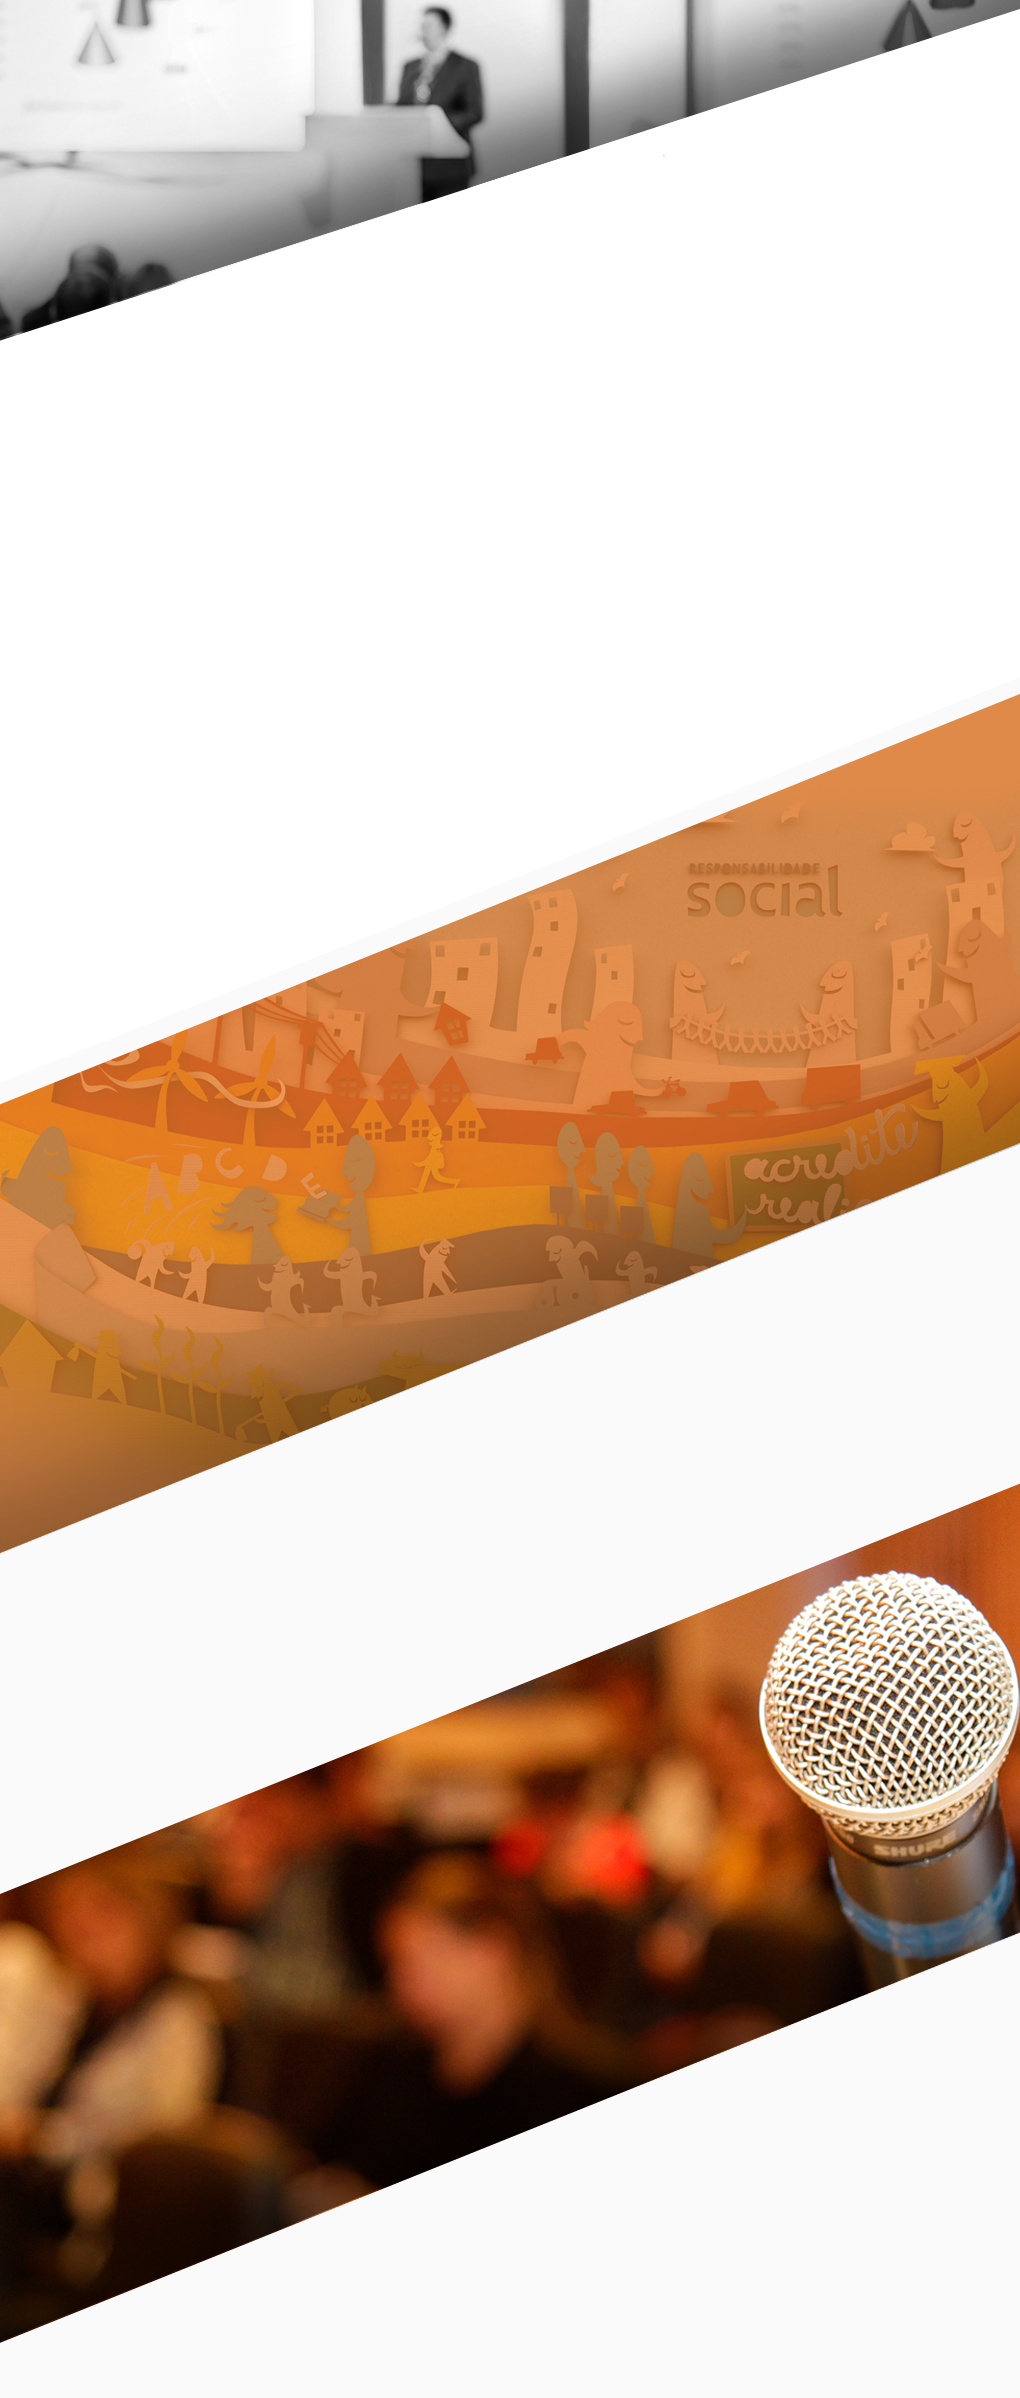
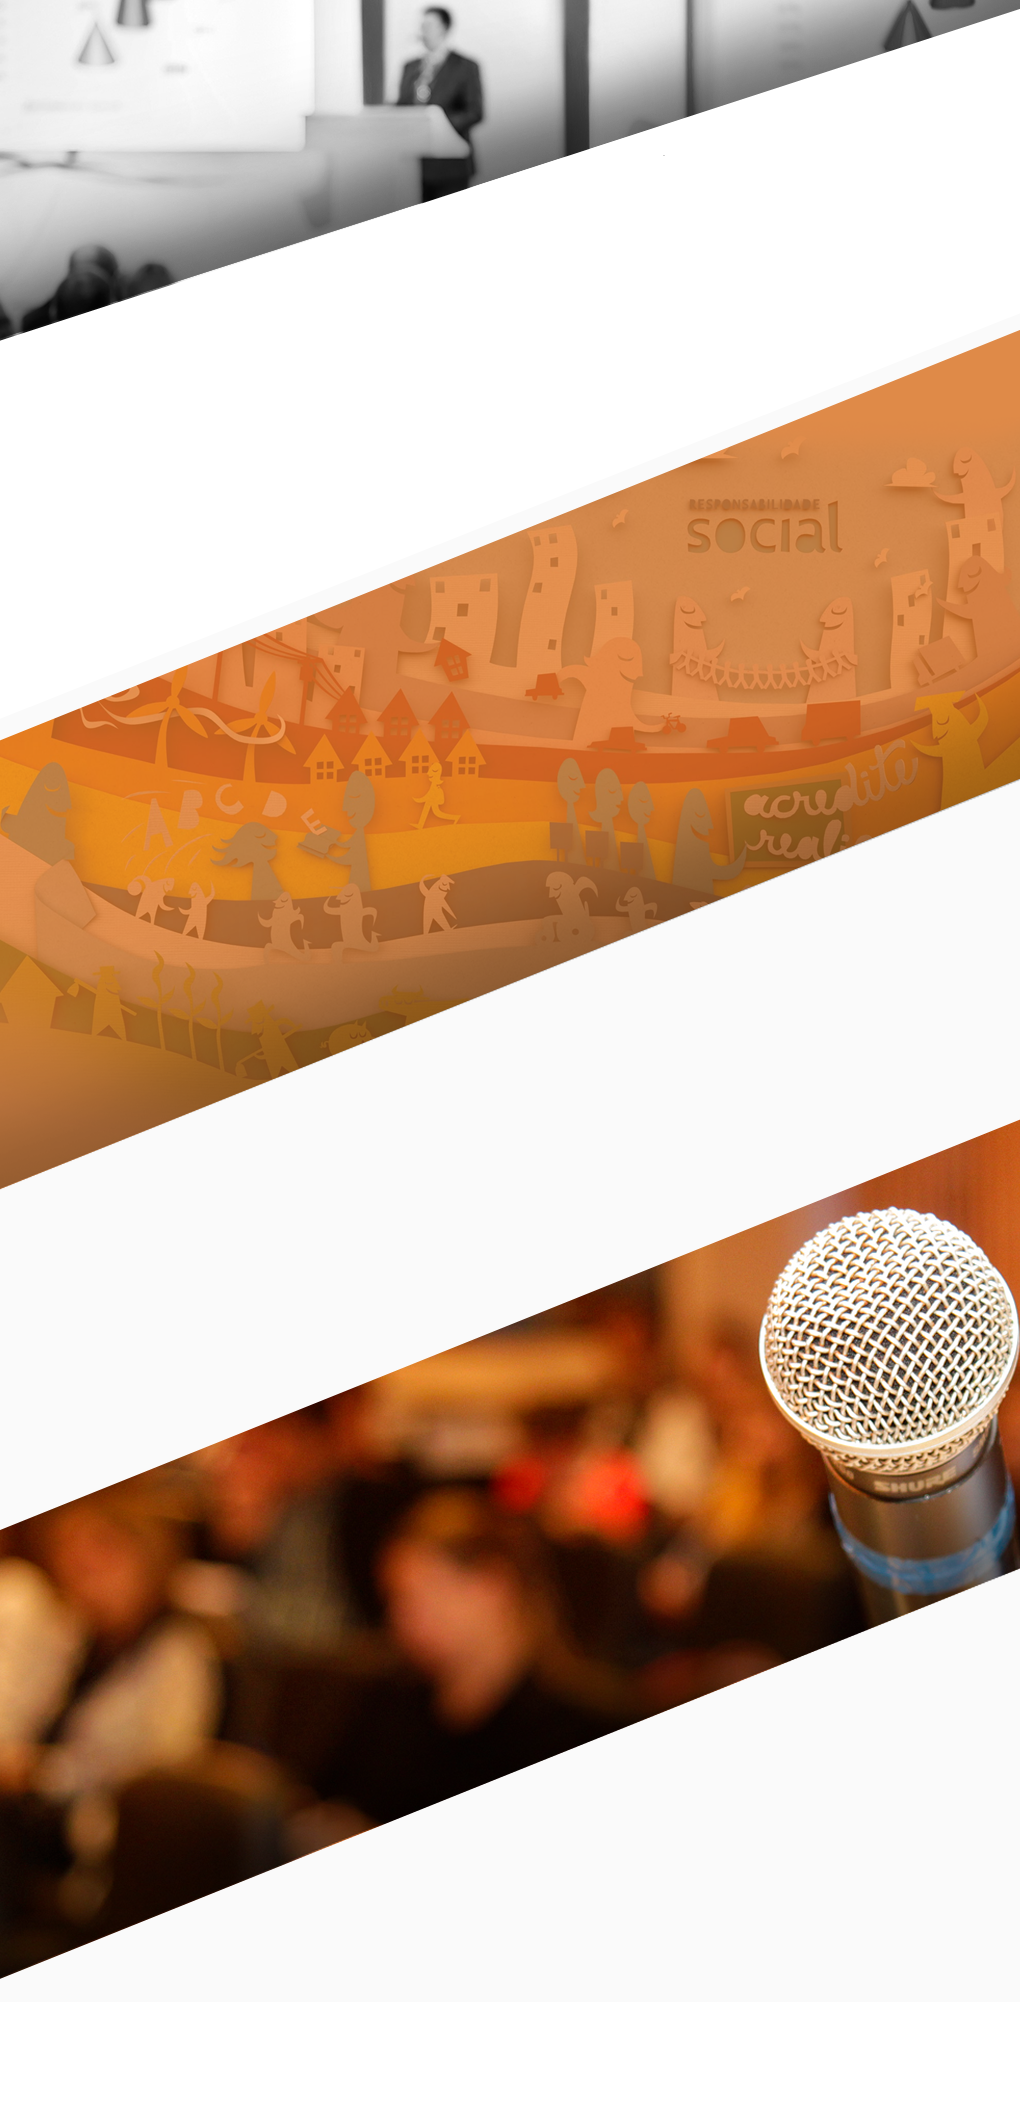
ajustes background

diff --git a/assets/css/4-pages/index-content.css b/assets/css/4-pages/index-content.css
@@ -3,11 +3,12 @@
 	background-image: url(../../img/bg-index/bg_index.png);
 	background-repeat: no-repeat;
     background-size: 100% auto;
-    background-position: center center;
+    background-position: top center;
 }
-.ca-container {
-	background-color: #FFF;
-}
+/*.ca-container {
+	background-color: rgba(255,255,255,0.6);
+	border-radius: 118px;
+}*/
 .metodo-apollo {
 	color: #000;
 }
